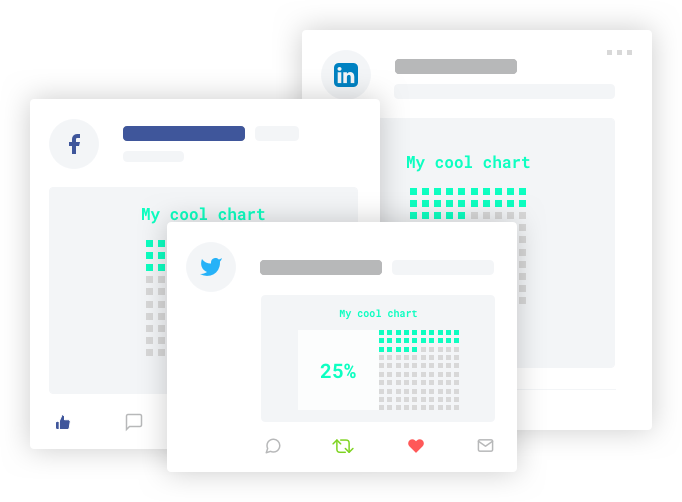
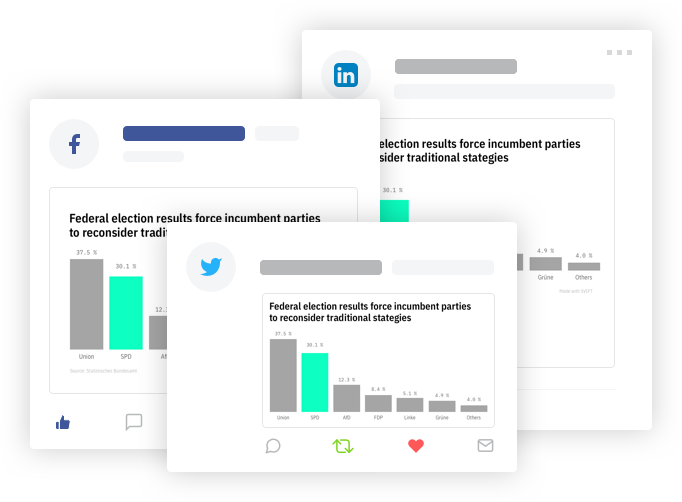
New cover graphic added

Changed region(s): [[0.3695, 0.5976, 0.739, 0.8367], [0.5543, 0.2689, 0.893, 0.5976], [0.0924, 0.4183, 0.4619, 0.7171]]

diff --git a/ToDos.md b/ToDos.md
@@ -34,8 +34,6 @@ MILESTONE 2 - private testing small (Tagesspiegel) > Mid April (13.04)
 
     - replace start screen viz
     - Logo position (bottom right)
-    - Themes > Fonts > (Modern, Future, Classic)
-        > Condensed Fonts
 
 ## Hans
 
